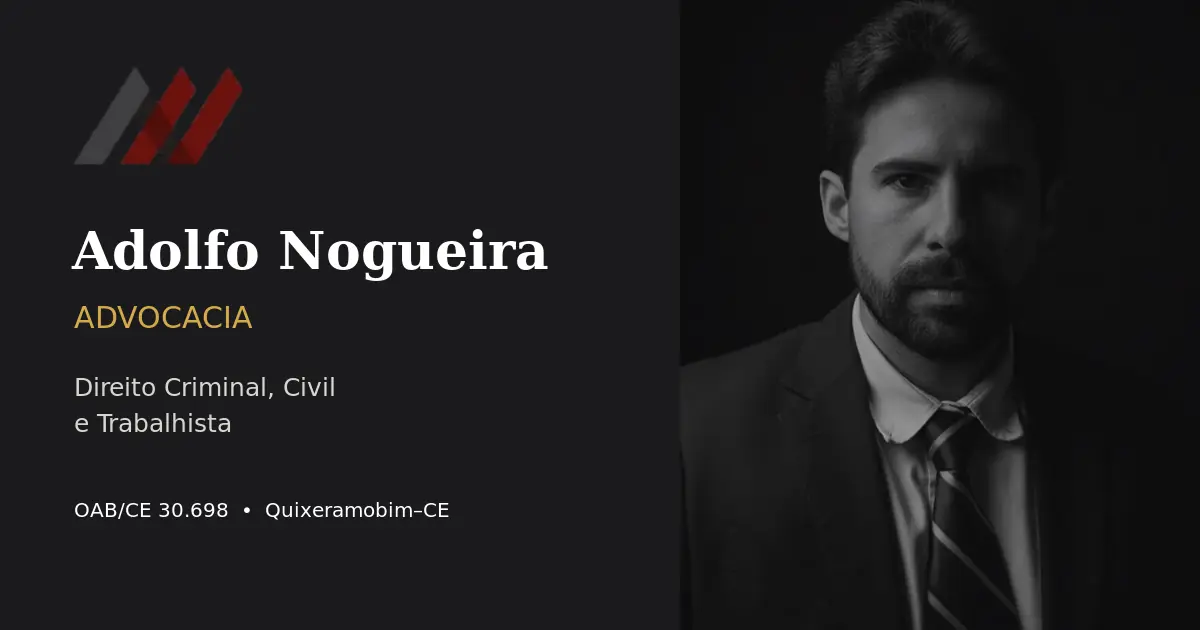
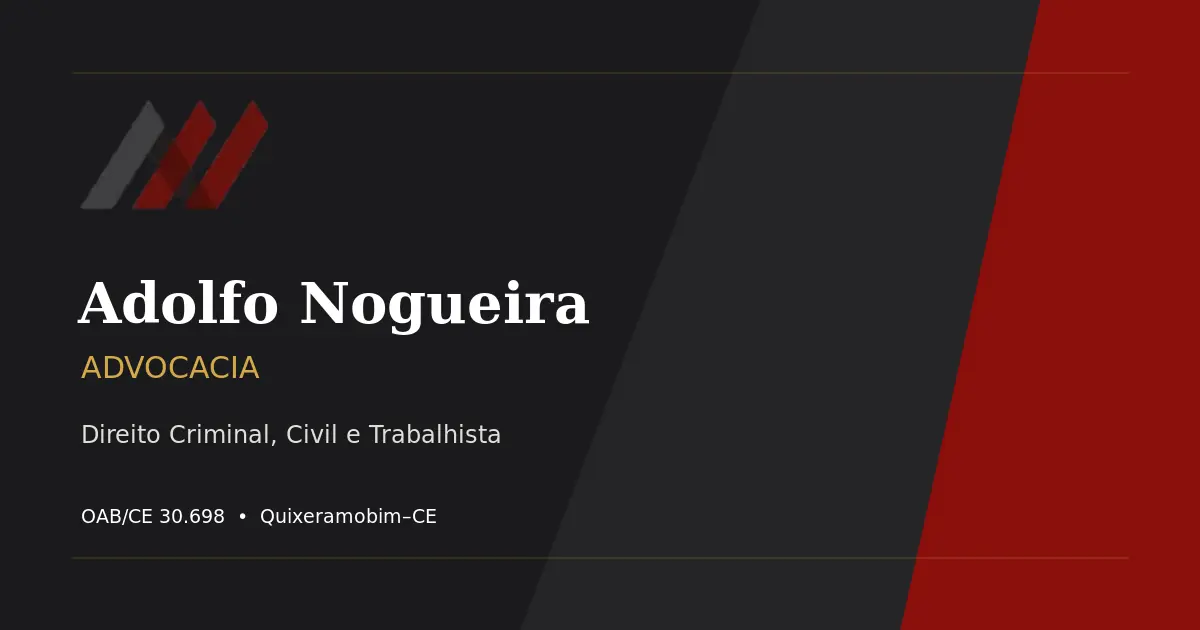
fix: corrigir FAQ mobile e remover fotos da prévia

diff --git a/index.html b/index.html
@@ -34,7 +34,6 @@
   <link rel="icon" type="image/png" sizes="16x16" href="/assets/favicon-16x16.png">
   <link rel="apple-touch-icon" sizes="180x180" href="/assets/apple-touch-icon.png">
   <link rel="manifest" href="/site.webmanifest">
-  <link rel="preload" as="image" href="assets/adolfo-hero.webp" type="image/webp" fetchpriority="high">
 
   <script type="application/ld+json">
   {
@@ -251,6 +250,16 @@
       background: var(--ink);
       z-index: 2;
     }
+    .hero-img-wrap.photo-placeholder {
+      background: linear-gradient(145deg, var(--slate-lt), #151516);
+      border: 1px solid rgba(184,146,47,0.32);
+    }
+    .hero-img-wrap.photo-placeholder::before {
+      content: '';
+      position: absolute;
+      inset: 1.25rem;
+      border: 1px solid rgba(255,255,255,0.08);
+    }
     .hero-img-wrap img {
       width: 100%; height: 100%;
       object-fit: cover;
@@ -308,6 +317,16 @@
     .sobre-img-wrap {
       aspect-ratio: 4/5; overflow: hidden; background: var(--slate);
       position: relative;
+    }
+    .sobre-img-wrap.photo-placeholder {
+      background: linear-gradient(145deg, var(--cream-dk), var(--parchment));
+      border: 1px solid rgba(140,109,30,0.28);
+    }
+    .sobre-img-wrap.photo-placeholder::before {
+      content: '';
+      position: absolute;
+      inset: 1.25rem;
+      border: 1px solid rgba(140,109,30,0.18);
     }
     .sobre-img-wrap img { width: 100%; height: 100%; object-fit: cover; display: block; filter: sepia(10%) contrast(1.08); }
     .sobre-accent {
@@ -418,6 +437,16 @@
     .perfil-grid { display: grid; grid-template-columns: 1fr 1.2fr; gap: clamp(3rem, 6vw, 8rem); align-items: center; }
     .perfil-visual { position: relative; }
     .perfil-img-wrap { aspect-ratio: 3/4; overflow: hidden; position: relative; background: var(--slate-lt); }
+    .perfil-img-wrap.photo-placeholder {
+      background: linear-gradient(145deg, var(--slate-lt), #171719);
+      border: 1px solid rgba(184,146,47,0.34);
+    }
+    .perfil-img-wrap.photo-placeholder::before {
+      content: '';
+      position: absolute;
+      inset: 1.25rem;
+      border: 1px solid rgba(255,255,255,0.08);
+    }
     .perfil-img-wrap img { width: 100%; height: 100%; object-fit: cover; object-position: top; display: block; filter: grayscale(20%); }
     .perfil-img-label {
       position: absolute; bottom: 1.5rem; left: 1.5rem; right: 1.5rem; z-index: 2;
@@ -574,6 +603,9 @@
       .cta-actions { flex-direction: row; flex-wrap: wrap; }
       .diferenciais-grid { grid-template-columns: 1fr; }
       .form-row { grid-template-columns: 1fr; }
+      .faq-layout { gap: 0; }
+      .faq-sidebar { position: static; top: auto; margin-bottom: 2.75rem; }
+      .faq-sidebar .btn-ghost { width: fit-content; max-width: 100%; }
       nav.nav { display: none; }
       .btn-nav { display: none; }
       .hamburger { display: flex; }
@@ -583,6 +615,9 @@
       .hero-title { font-size: 2.4rem; }
       .hero-actions { flex-direction: column; }
       .hero-meta { gap: 0.75rem; }
+      .faq-sidebar { margin-bottom: 2.25rem; }
+      .faq-toggle { padding: 1.25rem 0; }
+      .faq-question { font-size: 0.9rem; padding-right: 0.5rem; }
     }
 
     /* ─── BACK TO TOP ────────────────────────── */
@@ -673,13 +708,7 @@
     </div>
     <div class="hero-visual reveal reveal-delay-2">
       <div class="hero-frame">
-        <div class="hero-img-wrap">
-          <img src="assets/adolfo-hero.webp" alt="Retrato profissional de Adolfo Nogueira, advogado OAB/CE 30.698" width="800" height="1066" fetchpriority="high" decoding="async">
-          <div class="hero-caption">
-            <p class="hero-caption-name">Adolfo Nogueira</p>
-            <p class="hero-caption-title">Advogado • OAB/CE 30.698</p>
-          </div>
-        </div>
+        <div class="hero-img-wrap photo-placeholder" aria-hidden="true"></div>
       </div>
     </div>
   </div>
@@ -699,9 +728,7 @@
     <div class="sobre-grid">
       <div class="sobre-visual reveal">
         <div class="sobre-accent"></div>
-        <div class="sobre-img-wrap">
-          <img src="assets/escritorio-adolfo.webp" alt="Adolfo Nogueira em atendimento no escritório em Quixeramobim" width="900" height="900" loading="lazy" decoding="async">
-        </div>
+        <div class="sobre-img-wrap photo-placeholder" aria-hidden="true"></div>
         <div class="sobre-accent-2"></div>
         <div class="sobre-stats">
           <div class="stat-card">
@@ -910,16 +937,7 @@
   <div class="container">
     <div class="perfil-grid">
       <div class="perfil-visual reveal">
-        <div class="perfil-img-wrap">
-          <img src="assets/adolfo-perfil.webp" alt="Adolfo Nogueira em traje profissional" width="800" height="800" loading="lazy" decoding="async">
-          <div class="perfil-img-label">
-            <div class="oab-badge">OAB<br>CE</div>
-            <div>
-              <div class="oab-number">30.698</div>
-              <div class="oab-info">Advogado inscrito</div>
-            </div>
-          </div>
-        </div>
+        <div class="perfil-img-wrap photo-placeholder" aria-hidden="true"></div>
       </div>
       <div class="reveal reveal-delay-1">
         <div class="section-label" style="color:var(--gold);">O Profissional</div>

diff --git a/RELATORIO-OTIMIZACAO.md b/RELATORIO-OTIMIZACAO.md
@@ -2,14 +2,15 @@
 
 Projeto estático de Adolfo Nogueira Advocacia, revisado em 10/08/2026.
 
+> Atualização de prospecção: as fotografias foram removidas do layout e do pacote em 11/08/2026. As molduras foram preservadas para receber as imagens aprovadas pelo profissional.
+
 ## Resultado
 
 - HTML semântico validado com `html-validate`.
 - JavaScript validado sintaticamente e sem bibliotecas externas.
 - Todas as referências locais verificadas; nenhum arquivo ausente.
-- Fotografias e marca convertidas para WebP, com dimensões explícitas.
-- Hero sem lazy loading, com preload e `fetchpriority="high"`.
-- Imagens abaixo da dobra com `loading="lazy"` e `decoding="async"`.
+- Monograma em WebP; fotografias removidas da versão de prospecção.
+- Molduras mantidas com proporções definidas, evitando mudança de layout quando as fotos definitivas forem inseridas.
 - Fontes externas removidas. O projeto usa duas famílias de sistema, sem bloqueio de renderização.
 - Metadados completos: title, description, author, robots, canonical, Open Graph e Twitter Card.
 - JSON-LD `LegalService`, favicons, manifest, robots.txt e sitemap.xml adicionados.
@@ -18,7 +19,7 @@ Projeto estático de Adolfo Nogueira Advocacia, revisado em 10/08/2026.
 - Cabeçalhos de segurança fornecidos no arquivo `_headers` para hosts compatíveis.
 - Linguagem ética revisada, sem promessa de resultado ou garantia de retorno imediato.
 
-## Comparativo das imagens
+## Comparativo das imagens antes da remoção
 
 | Arquivo | Original | WebP | Redução |
 |---|---:|---:|---:|
@@ -27,15 +28,15 @@ Projeto estático de Adolfo Nogueira Advocacia, revisado em 10/08/2026.
 | Foto de perfil | 375.647 B | 48.320 B | 87,1% |
 | Monograma | 308.416 B | 9.724 B | 96,8% |
 
-Os PNGs restantes são apenas os ícones exigidos por navegadores e dispositivos Apple. As fotografias e a marca usadas no conteúdo estão em WebP.
+Os dados acima registram a otimização realizada antes da retirada das fotos. Os PNGs restantes são apenas os ícones exigidos por navegadores e dispositivos Apple; a marca usada no conteúdo está em WebP.
 
 ## Checklist final
 
 - [x] Conteúdo raster do site em WebP
 - [x] Referências de conteúdo apontando para `.webp`
-- [x] Hero prioritário, sem lazy loading
-- [x] Lazy loading abaixo da dobra
-- [x] Width e height em todas as imagens
+- [x] Hero sem requisição de fotografia na versão de prospecção
+- [x] Molduras com proporção fixa para evitar CLS
+- [x] Dimensões explícitas nas imagens restantes
 - [x] OG image WebP em 1200 × 630 px
 - [x] No máximo duas famílias tipográficas
 - [x] Nenhuma fonte ou biblioteca externa bloqueante

diff --git a/README.md b/README.md
@@ -2,10 +2,12 @@
 
 Landing page estática preparada para apresentação comercial e publicação na Vercel.
 
+Esta versão de prospecção mantém as molduras de fotografia vazias para que as imagens definitivas sejam inseridas somente após a aprovação do profissional.
+
 ## Estrutura
 
 - `index.html`: página completa.
-- `assets/`: fotos, monograma e ícones otimizados.
+- `assets/`: monograma e ícones otimizados.
 - `og-image.webp`: imagem de compartilhamento 1200 × 630 px.
 - `robots.txt` e `sitemap.xml`: indexação.
 - `site.webmanifest` e favicons: identidade no navegador e celular.
